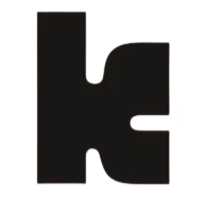
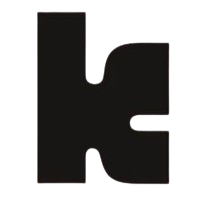
icone sans fond

diff --git a/index.html b/index.html
@@ -4,7 +4,7 @@
     <meta charset="UTF-8">
     <meta name="viewport" content="width=device-width, initial-scale=1.0">
     <link rel="stylesheet" href="src/style.css">
-    <link rel="shortcut icon" href="./assets/Icone.ico" type="image/x-icon">
+    <link rel="shortcut icon" href="./assets/Icone.png" type="image/x-icon">
     <title>Koba | Products</title>
 </head>
 <body>
